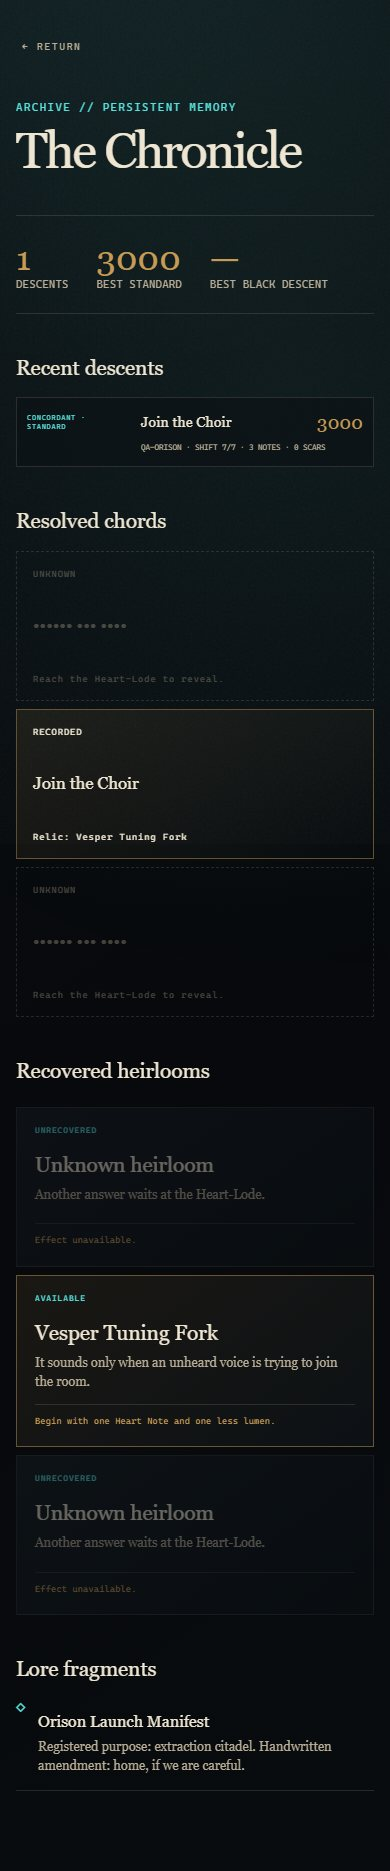
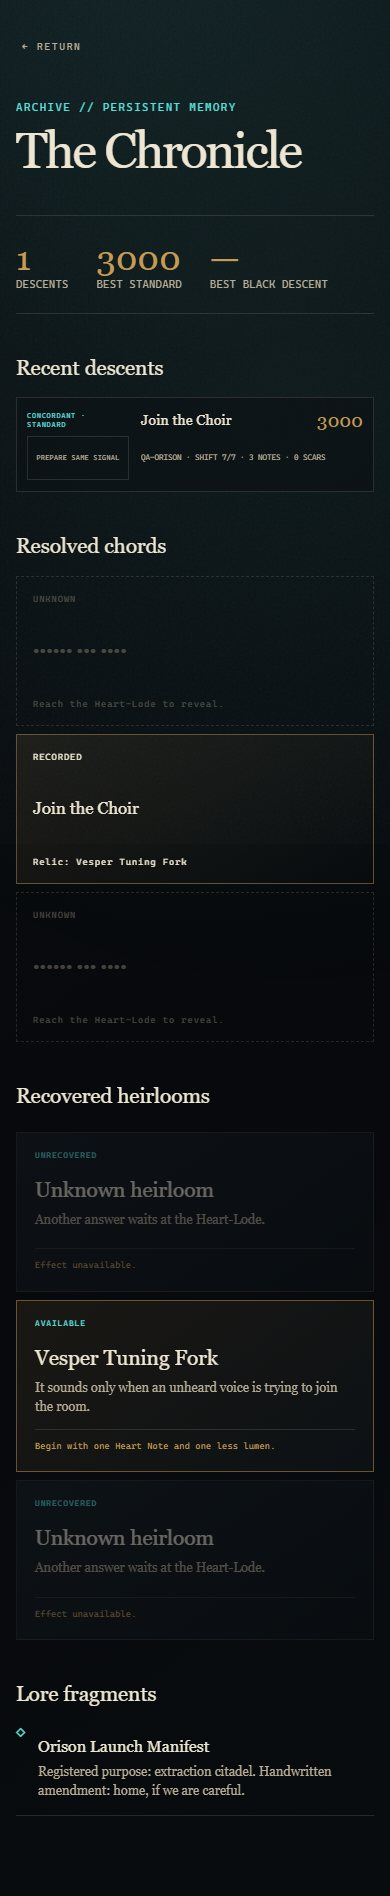
feat: reopen archived expedition signals

diff --git a/apps/game/app/game-app.tsx b/apps/game/app/game-app.tsx
@@ -26,6 +26,7 @@ import {
   type ModuleId,
   type RelicId,
   type RunMode,
+  type RunRecord,
 } from '@lode-choir/engine';
 import { useCallback, useEffect, useMemo, useRef, useState } from 'react';
 import { choirAudio } from './audio';
@@ -518,7 +519,7 @@ function CompletionPanel({ view, onNewRun, onChronicle }: { view: GameView; onNe
   );
 }
 
-function Chronicle({ legacy, onBack }: { legacy: LegacyState; onBack: () => void }) {
+function Chronicle({ legacy, onRetry, onBack }: { legacy: LegacyState; onRetry: (record: RunRecord) => void; onBack: () => void }) {
   const standardScores = legacy.records.filter((record) => record.runMode === 'standard' && record.scoreVersion === 2).map((record) => record.score);
   const blackScores = legacy.records.filter((record) => record.runMode === 'black_descent' && record.scoreVersion === 2).map((record) => record.score);
   return (
@@ -536,6 +537,7 @@ function Chronicle({ legacy, onBack }: { legacy: LegacyState; onBack: () => void
           <span className={record.outcome === 'won' ? 'is-win' : 'is-loss'}>{record.outcome === 'won' ? 'CONCORDANT' : 'SILENCED'} · {record.runMode === 'black_descent' ? 'BLACK DESCENT' : 'STANDARD'}</span>
           <strong>{outcome}</strong><b>{record.score}</b>
           <small>{record.seed} · SHIFT {record.shift}/7 · {record.heartNotes} NOTES · {record.scars} SCARS{relic ? ` · ${relic.name}` : ''}{record.scoreVersion === 1 ? ' · ARCHIVED FORMULA' : record.runMode === 'black_descent' ? ` · BASE ${record.baseScore} × ${record.scoreMultiplier}` : ''}</small>
+          <button type="button" onClick={() => onRetry(record)}>PREPARE SAME SIGNAL</button>
         </li>;
       })}</ol> : <p className="empty-message">No expedition has yet returned to the archive.</p>}
       <h2>Resolved chords</h2>
@@ -664,7 +666,7 @@ function ManualPage({ onBack }: { onBack: () => void }) {
         <article><span>04 // DESCENT</span><h2>Carry the cost</h2><p>Every route consumes a ration. High strain creates a lasting scar and removes that person from the following shift. Vows and story choices build loyalty.</p></article>
         <article><span>05 // CITADEL</span><h2>Wake or mend</h2><p>After shifts two and four, spend alloy to build or improve Orison, plate two points of damaged hull, or conserve it. Every option ends development.</p></article>
         <article><span>06 // HEART-LODE</span><h2>Find three Notes</h2><p>Reach shift seven with three Heart Notes and a living citadel. Then choose what the crew does with the moon-song; each answer leaves a different legacy.</p></article>
-        <article><span>07 // CHRONICLE</span><h2>Leave a record</h2><p>Every ending unlocks an heirloom for later expeditions. The Chronicle keeps twelve deterministic scores with seed, outcome, scars, vows, relic, and descent mode.</p></article>
+        <article><span>07 // CHRONICLE</span><h2>Leave a record</h2><p>Every ending unlocks an heirloom for later expeditions. The Chronicle keeps twelve deterministic scores and can prepare any recorded seed, mode, and recovered relic for a rematch.</p></article>
         <article><span>08 // BLACK DESCENT</span><h2>Travel light</h2><p>Choose this optional contract at loadout for 1.25× score: 11 hull, three provisions, four alloy, one lumen, dearer plating, and twice the hidden fault on high-risk routes.</p></article>
       </div>
     </MenuPage>
@@ -943,6 +945,13 @@ export function GameApp() {
     setSurface('loadout');
     resetDocumentScroll();
   };
+  const prepareArchivedRun = (record: RunRecord) => {
+    setSeed(record.seed);
+    setSelectedRunMode(record.runMode);
+    setSelectedRelic(record.startingRelic && legacy.relics.includes(record.startingRelic) ? record.startingRelic : null);
+    setSurface('loadout');
+    resetDocumentScroll();
+  };
 
   const createProgressBackup = () => JSON.stringify({
     game: 'lode-choir-backup',
@@ -984,7 +993,7 @@ export function GameApp() {
   if (surface === 'title') return <div className={shellClasses}><TitleScreen seed={seed} hasSave={hasSave} savePreview={savePreview} notice={notice} onSeed={setSeed} onNew={() => prepareLoadout()} onContinue={continueRun} onNavigate={openMenuPage} /></div>;
   if (surface === 'loadout') return <div className={shellClasses}><LoadoutPage seed={seed} unlocked={legacy.relics} selected={selectedRelic} runMode={selectedRunMode} onSelect={setSelectedRelic} onMode={setSelectedRunMode} onBegin={() => startRun(seed, selectedRelic, selectedRunMode)} onBack={goBack} /></div>;
   if (surface === 'manual') return <div className={shellClasses}><ManualPage onBack={goBack} /></div>;
-  if (surface === 'chronicle') return <div className={shellClasses}><Chronicle legacy={legacy} onBack={goBack} /></div>;
+  if (surface === 'chronicle') return <div className={shellClasses}><Chronicle legacy={legacy} onRetry={prepareArchivedRun} onBack={goBack} /></div>;
   if (surface === 'settings') return <div className={shellClasses}><SettingsPage settings={settings} onChange={setSettings} onCreateBackup={createProgressBackup} onRestoreBackup={restoreProgressBackup} onBack={goBack} /></div>;
   if (surface === 'credits') return <div className={shellClasses}><MenuPage eyebrow="TRANSMISSION // AUTHORS" title="Credits" onBack={goBack}><div className="credits-copy"><p>Designed and built as an original game about care, extraction, and the cost of listening.</p><p>Rules, words, interface, vector marks, and procedural tones created for <em>Lode Choir</em>.</p><ToneMark active /></div></MenuPage></div>;
   if (!view) return null;

diff --git a/apps/game/tests/game.spec.ts b/apps/game/tests/game.spec.ts
@@ -184,6 +184,7 @@ test('Black Descent previews exact conditions, resumes, scores, archives, and re
   await page.getByTestId('continue-run').click();
   state = await page.evaluate(() => window.__LODE_CHOIR__?.getState());
   expect(state?.runMode).toBe('black_descent');
+  const completedSeed = state!.seed;
 
   await page.evaluate(() => {
     const run = window.__LODE_CHOIR__?.getState();
@@ -198,6 +199,9 @@ test('Black Descent previews exact conditions, resumes, scores, archives, and re
   await expect(page.locator('.chronicle-summary')).toContainText('best Black Descent');
   await expect(page.locator('.run-history').first()).toContainText('CONCORDANT · BLACK DESCENT');
   await expect(page.locator('.run-history').first()).toContainText('BASE');
+  await page.getByRole('button', { name: 'PREPARE SAME SIGNAL' }).click();
+  await expect(page.locator('.loadout-footer')).toContainText(completedSeed);
+  await expect(page.getByRole('radio', { name: /Black Descent/i })).toBeChecked();
   await page.getByRole('button', { name: /RETURN/ }).click();
   await page.getByRole('button', { name: 'Begin another descent' }).click();
   await expect(page.getByRole('radio', { name: /^STANDARD DESCENT Standard$/i })).toBeChecked();

diff --git a/apps/game/app/styles.css b/apps/game/app/styles.css
@@ -97,6 +97,8 @@ h1, h2 { font-family: var(--serif); font-weight: 500; }
 .run-history li > strong { font: .9rem var(--serif); }
 .run-history li > b { color: var(--brass-400); font: 1.2rem var(--serif); }
 .run-history li > small { grid-column: 2 / 4; color: var(--bone-300); font-size: .48rem; line-height: 1.4; }
+.run-history li > button { grid-column: 1; grid-row: 2; min-height: 44px; padding: 4px 7px; border: 1px solid var(--quiet-line); color: var(--bone-300); background: transparent; cursor: pointer; font-size: .43rem; letter-spacing: .05em; }
+.run-history li > button:hover { border-color: var(--vein-400); color: var(--vein-400); }
 .archive-grid { display: grid; grid-template-columns: repeat(3, 1fr); gap: 8px; }
 .archive-grid article { min-height: 150px; padding: 16px; display: flex; flex-direction: column; justify-content: space-between; border: 1px dashed var(--quiet-line); color: rgba(184,173,150,.35); }
 .archive-grid article.is-found { border-style: solid; border-color: rgba(200,155,85,.45); color: var(--bone-100); background: linear-gradient(145deg, rgba(200,155,85,.1), transparent); }

diff --git a/docs/VALIDATION.md b/docs/VALIDATION.md
@@ -101,7 +101,7 @@ recomputed honestly.
   scored Chronicle history, Black Descent keyboard selection, exact preview,
   save/resume, completion, archive categorization and fresh-run reset, later phase
   surfaces, validated backup rejection/restore across run, Chronicle, and settings,
-  shared-seed URL initialization, and test hooks.
+  shared-seed URL initialization, Chronicle rematch preparation, and test hooks.
 - Axe scans report no detectable violations on the title, manual, loadout, planning,
   expanded charting, or resource-gated event surfaces in either browser project.
 - Production static export passes. The bounded E2E runner builds, serves, tests, closes

diff --git a/README.md b/README.md
@@ -33,6 +33,8 @@ autosave, Chronicle progression, and accessibility/audio settings before restori
 local data.
 Append `?seed=SHARED-SIGNAL` to the local game URL to prepare the same deterministic
 expedition for another player or later playtest.
+Every Chronicle record can also reopen its exact seed and mode at loadout, carrying its
+relic when that heirloom remains recovered.
 
 See `docs/VALIDATION.md` for the current balance, browser, accessibility, visual,
 and dependency-audit evidence.
